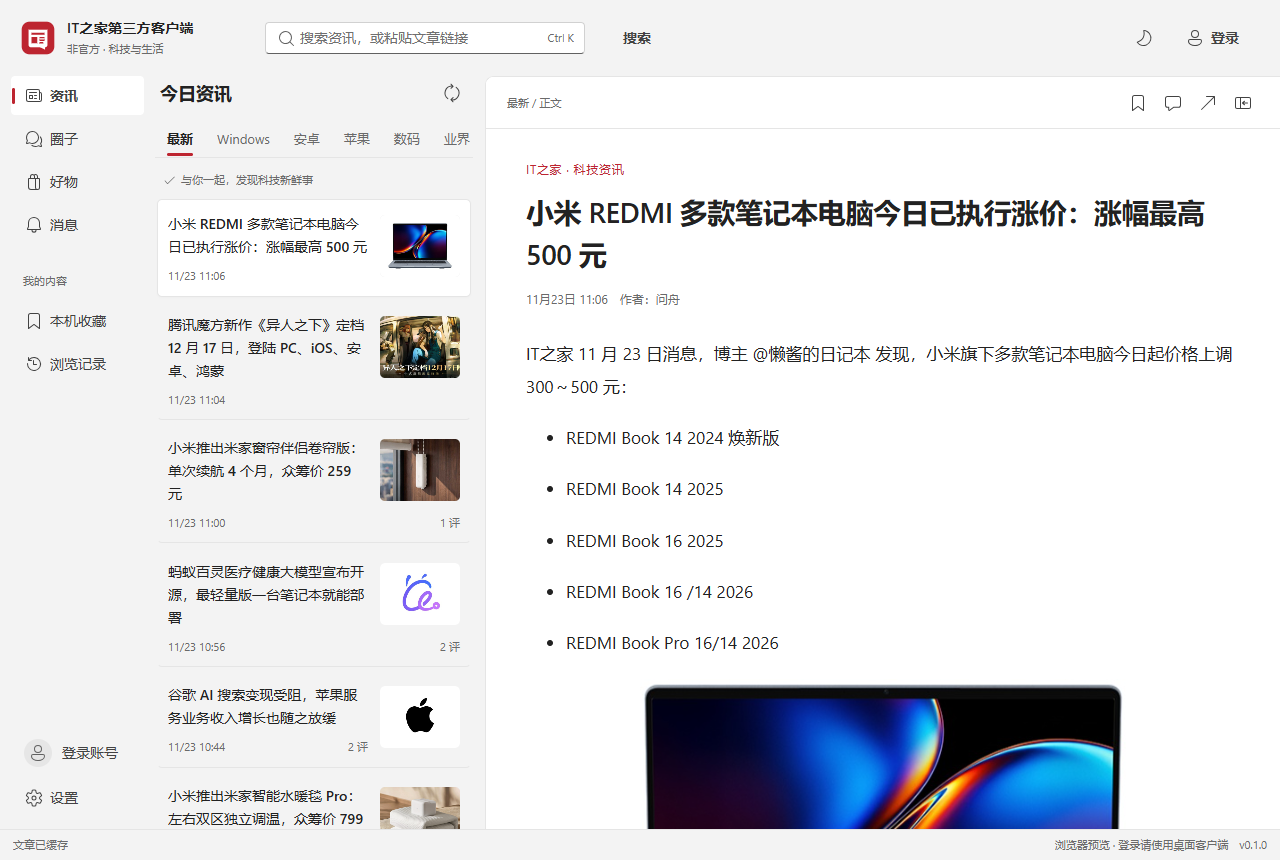
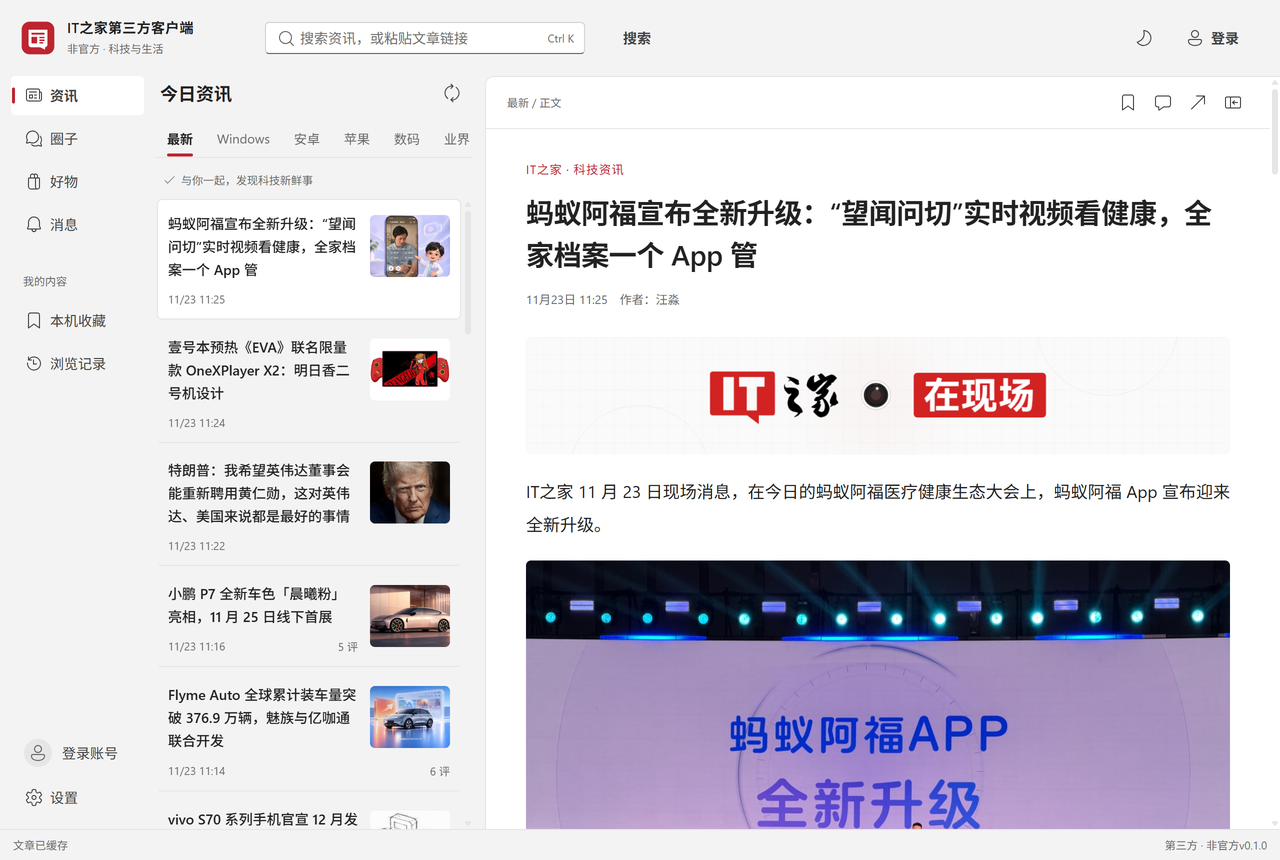
记录正式构建验证结果并更新真实客户端截图

diff --git a/docs/VALIDATION.md b/docs/VALIDATION.md
@@ -29,4 +29,8 @@
 
 ## 内存与体积
 
-开发构建实测：阅读资讯时整个进程树约 403 MB 专用工作集，包含 8 个进程；开发服务器资源和调试构建会影响结果。这不是 Release 内存，也不能用于承诺此前估计的 150～300 MB。正式包体和 Release 结果以完成后的打包记录为准。
+Release 构建实测：当前文章阅读场景下整个进程树约 **254.3 MB 专用工作集**，包含 7 个进程。原生测试从启动到完成资讯、正文及评论读取约 2.85 秒，包含网络与测试调用，不等同于纯窗口启动时间。内存随图片、媒体、浏览状态和系统版本变化。
+
+x64 安装包 2,682,167 字节（约 2.56 MiB）；便携 ZIP 3,444,315 字节（约 3.28 MiB）。二者不包含共享的 WebView2 运行时，缓存也单独计算。安装包已由 NSIS 成功生成，Release 程序已通过上述原生检查。
+
+开发构建另测得约 403 MB / 8 个进程，仅作调试场景记录，不作为产品体积或 Release 内存指标。

diff --git a/docs/PROJECT_GUIDE.md b/docs/PROJECT_GUIDE.md
@@ -17,6 +17,9 @@ pnpm test
 cargo test --locked --manifest-path src-tauri/Cargo.toml
 # 保持开发服务运行，再执行真实匿名接口与受控响应交互测试：
 pnpm test:e2e
+pnpm test:site
+# 原生程序已构建且没有登录真实账号时，可执行原生 IPC 与窗口隔离检查：
+pnpm test:native
 ```
 
 ## 数据与登录
@@ -64,4 +67,4 @@ Pages 使用 Actions 构建并发布中英文官网和隐私页。网站从 Rele
 pnpm site:build
 ```
 
-网站图片来自真实匿名阅读测试的界面截图；更新界面后重新检查截图。新增业务功能前更新 FEATURES.md，保持实现与宣传一致。
+网站图片来自真实匿名阅读测试的界面截图；更新界面后重新检查截图。常规测试只写入忽略的 test-results，设置 ITHOME_CAPTURE_SITE=1 才从浏览器测试更新网站截图。新增业务功能前更新 FEATURES.md，保持实现与宣传一致。
